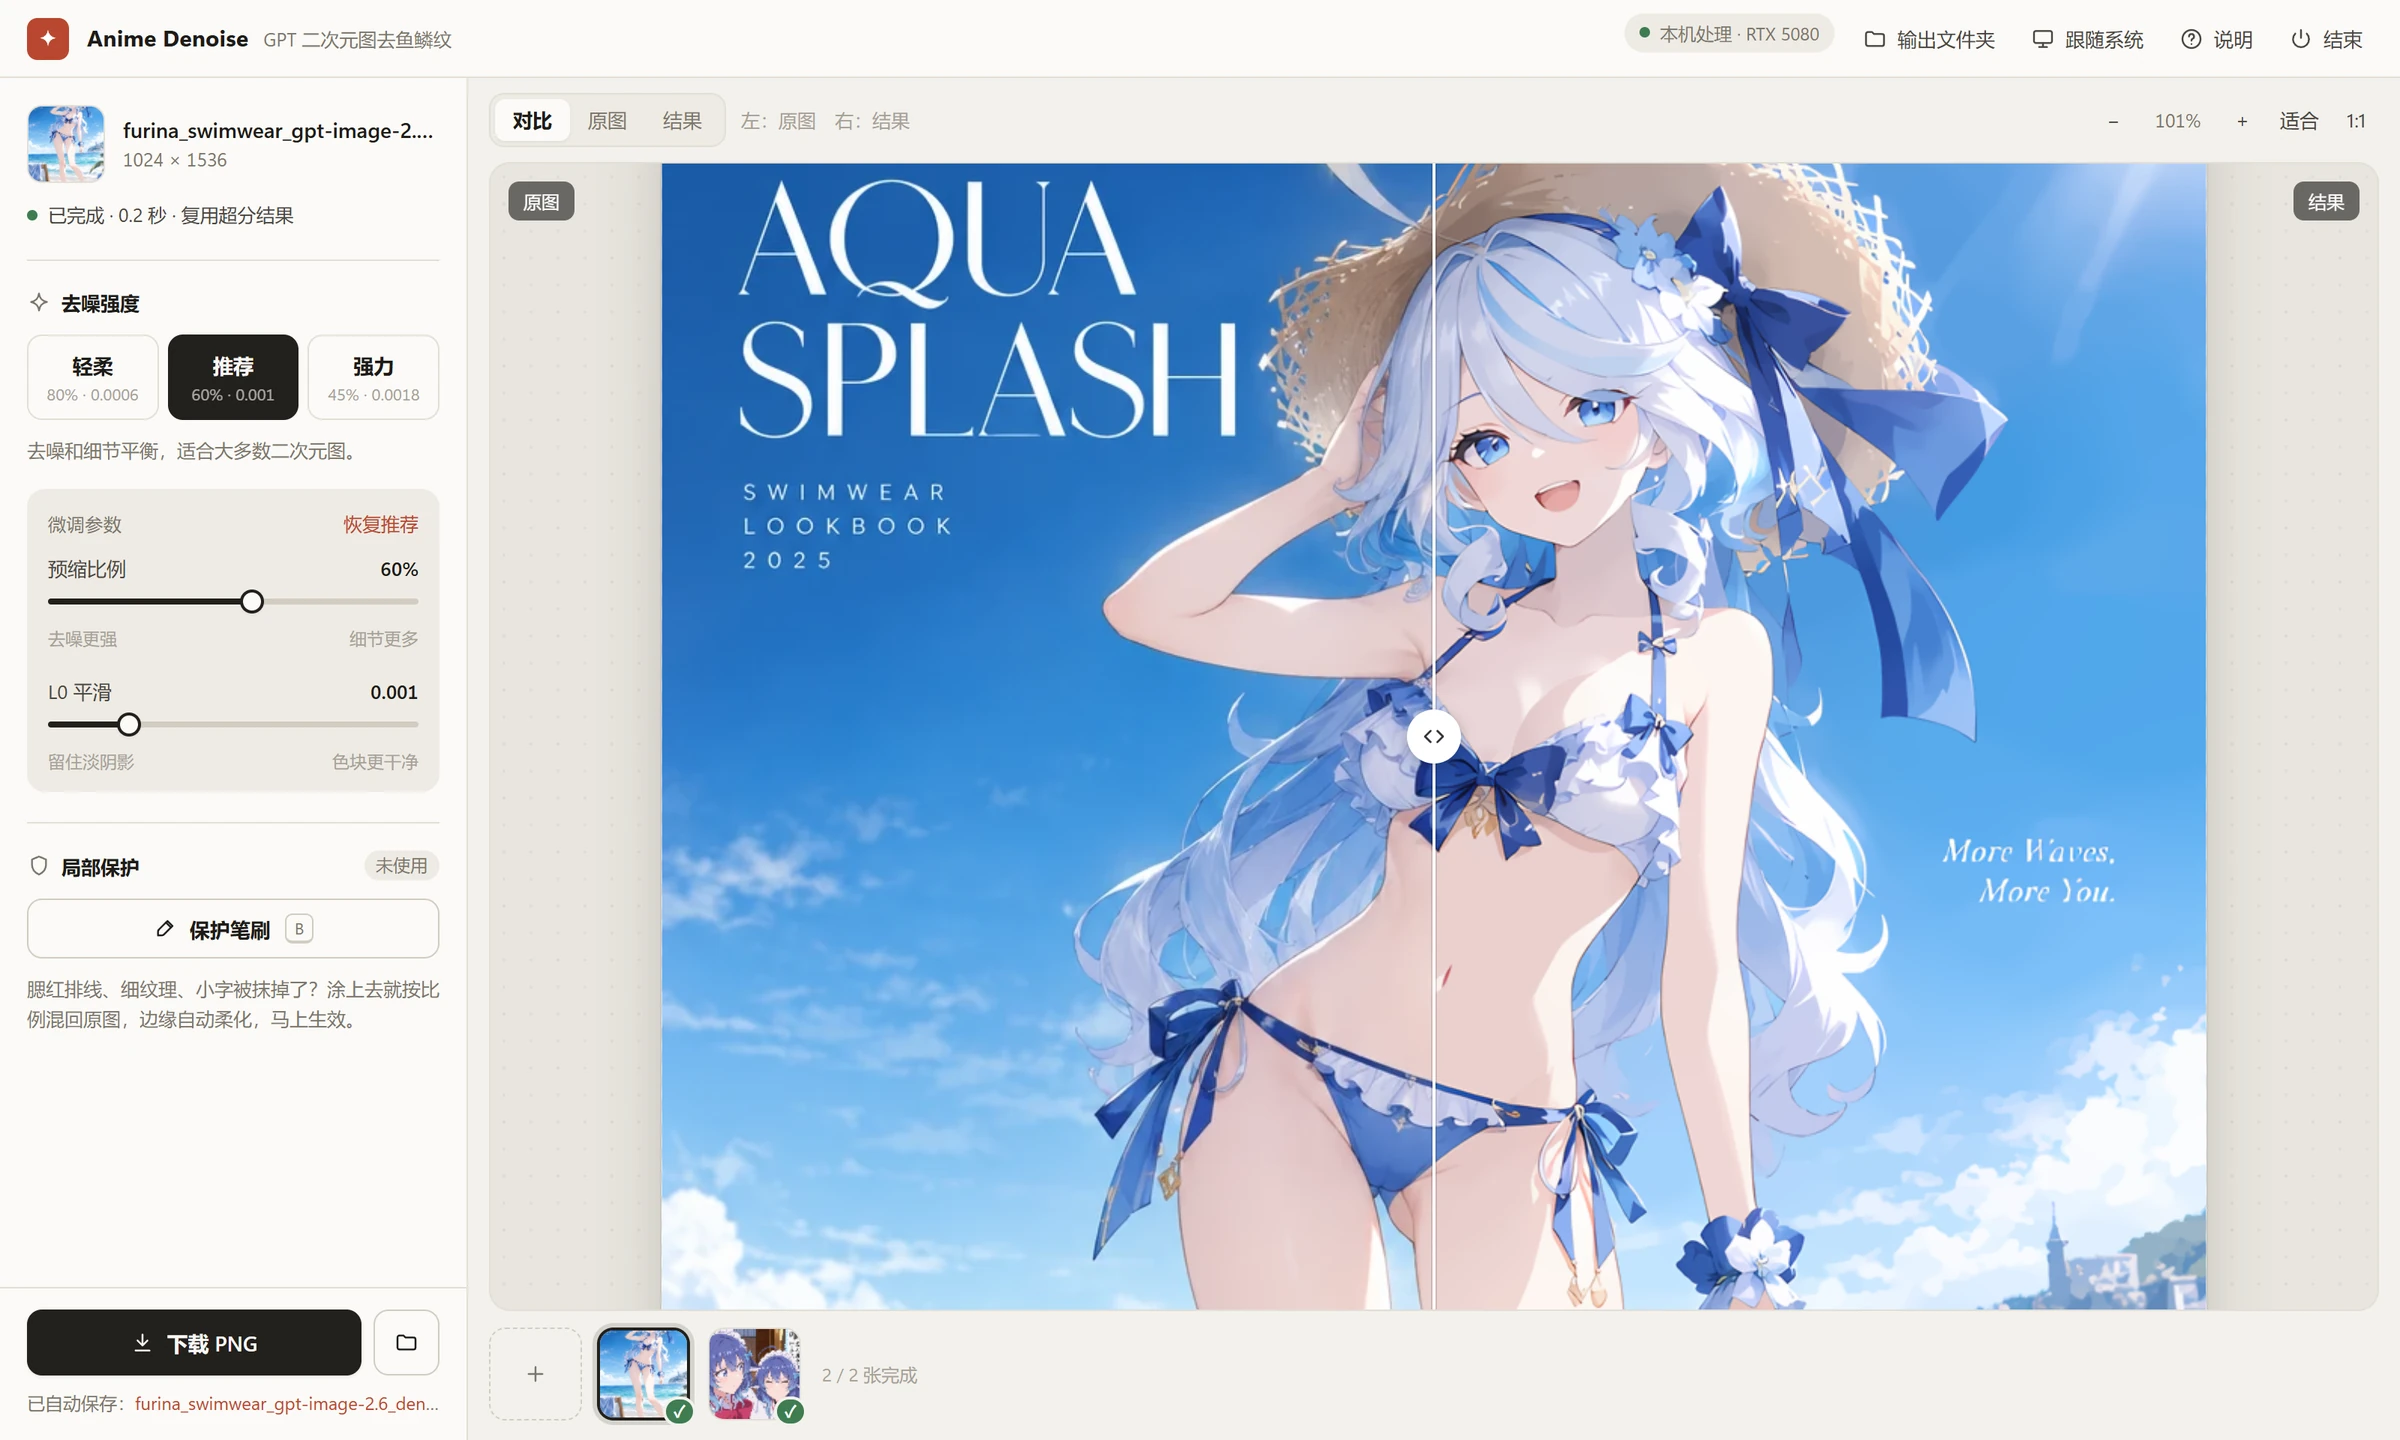
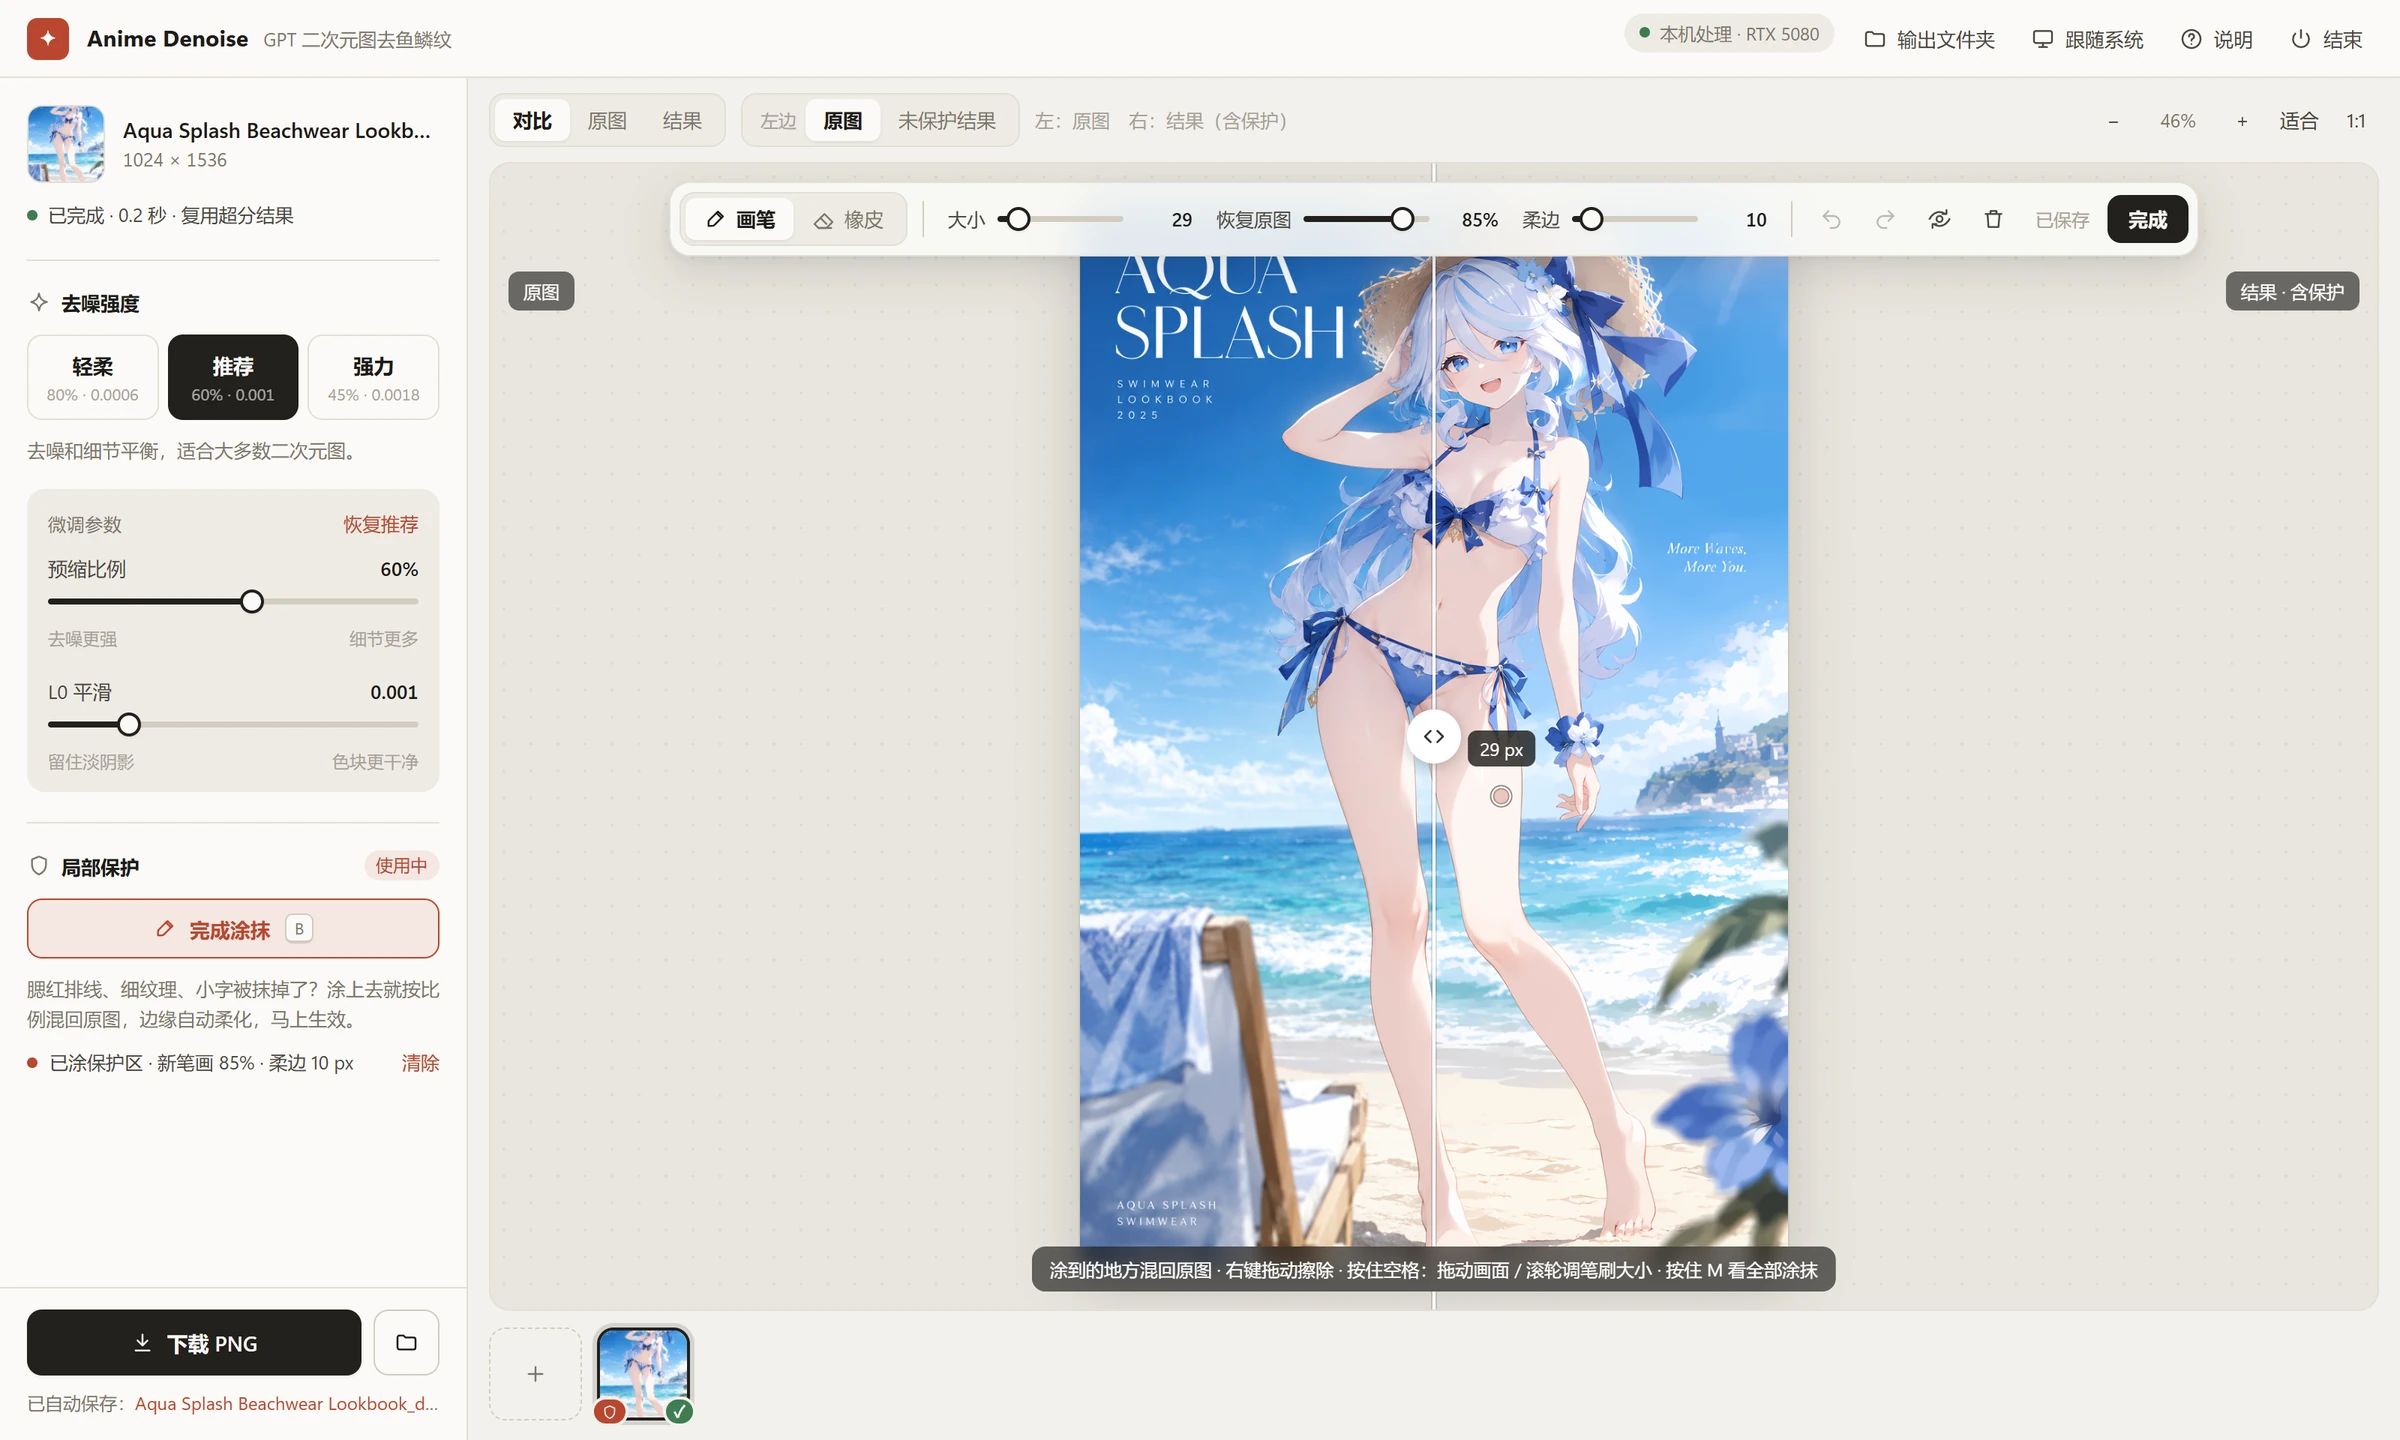
README: table of contents, real-use GUI screenshots, acknowledgements
- Overview screenshot of the app on the Aqua Splash poster in brush mode;
  the brush section now shows a real protection mask (zoomed tint in the
  app plus a same-area crop: mask / plain / fused / original).
- GUI section split into 主要功能 / 局部保护笔刷 / 外观与快捷键; new 目录
  and 致谢 sections.

diff --git a/README.md b/README.md
@@ -14,6 +14,24 @@ Removes the fish-scale texture that OpenAI's GPT image models leave in anime and
 
 QQ 群：**1130507071**，欢迎来做技术交流。群里聊 AI 视频、AI 建模、AI 绘画等内容，主打 agent base（dsh、Codex、Claude Code）+ 本地模型。
 
+## 目录
+
+- [效果](#效果)
+  - [粉彩白底插画](#粉彩白底插画)
+  - [电影感宽幅场景](#电影感宽幅场景)
+  - [番剧截帧质感](#番剧截帧质感)
+  - [八种方法对比](#八种方法对比)
+- [图形界面](#图形界面)
+  - [主要功能](#主要功能)
+  - [局部保护笔刷](#局部保护笔刷)
+  - [外观与快捷键](#外观与快捷键)
+- [命令行用法](#命令行用法)
+- [原理](#原理)
+  - [试过但效果不好的方法](#试过但效果不好的方法)
+- [作为 Claude Code / Codex skill 使用](#作为-claude-code--codex-skill-使用)
+- [致谢](#致谢)
+- [许可](#许可)
+
 ## 效果
 
 左边去噪前，右边默认方案去噪后。**请点开看原尺寸**，缩小后鳞纹看不出来。
@@ -52,26 +70,34 @@ python denoise_app.py      # 自动在浏览器打开 http://127.0.0.1:7865/
 
 Windows 上也可以双击 `去噪工具.bat`（默认用 PATH 里的 `pythonw`，需要时在文件里改成自己的 Python）。图片只在本机处理，不会上传；结果自动存到 `outputs/`（可用环境变量 `ANIME_DENOISE_OUTPUT` 改位置）。
 
-![GUI 滑动对比](examples/gui_compare.webp)
+![GUI 总览](examples/gui_compare.webp)
+
+### 主要功能
 
 - **拖进来就去噪**：拖入、点击选择或 Ctrl+V 粘贴，可以一次放多张，底部缩略图排队依次处理；RTX 5080 上一张约 1 秒。
 - **三档强度 + 微调**：轻柔（80% · 0.0006）/ 推荐（60% · 0.001）/ 强力（45% · 0.0018），下面的「微调参数」可以单独调预缩比例和 L0；松手就重跑，只改 L0 时复用超分结果，约 0.3 秒。正在处理时改参数，旧任务会立刻中止，直接按新参数重来。每张图记住自己的参数。
 - **对比查看**：对比 / 原图 / 结果三种视图；拖分割线比较，或按 `X` 在全屏原图和全屏结果之间直接切换（没有分割线）；滚轮缩放（200% 以上按原像素显示），拖动平移，按住 Z 临时看原图。
 - **保存**：右边显示的就是下载的 PNG，尺寸和原图一样，透明背景会保留；同时自动存一份到 `outputs/`，左下角点文件名就能在文件夹里定位。
 
+### 局部保护笔刷
+
+去噪有时会把皮肤的柔和阴影、腮红排线、细纹理、小字也一起抹平。用笔刷涂在这些地方，涂过的地方按比例混回原图，实时生效，不用重跑模型。下面两张都是同一张图上真实的涂抹：
+
 ![GUI 局部保护笔刷](examples/gui_mask.webp)
 
-- **局部保护笔刷**：腮红排线、细纹理、小字这类不想被抹平的地方，用画笔涂上（上图涂在两边脸颊的腮红上，淡红色就是涂过的范围和强度）。涂过的地方按比例混回原图，实时生效，不用重跑模型。
-  - 画面上方浮出工具条：画笔 / 橡皮、大小（默认 14 px，按住空格转滚轮可以细调）、恢复原图比例、柔边（默认 10 px，只向外渐变，0 是硬边）、撤销 / 重做、显示范围、清除。
-  - 每一笔有自己的强度：「恢复原图」设的是接下来这几笔的比例（默认 90%，100% 就是完全不动），同一张图里可以有 95% 的地方和 40% 的地方；淡红色越深表示混回原图越多，柔边的渐变也直接显示出来。在涂过的地方再涂，会改成新的比例。
-  - 左边可以切到「未保护结果」，直接对比加保护前后。淡红范围默认「涂完自动隐藏」：画的时候显示，松手后约 0.7 秒淡出；工具条上的眼睛按钮可改成一直显示，任何时候按住 M 都能看到全部已涂的地方。
-  - 去噪前也可以先涂；重新去噪后保护区会自动套用。
+![局部保护前后对比](examples/gui_mask_crops.webp)
+
+- 画面上方浮出工具条：画笔 / 橡皮、大小（默认 14 px，按住空格转滚轮可以细调）、恢复原图比例（默认 90%）、柔边（默认 10 px，只向外渐变，0 是硬边）、撤销 / 重做、显示范围、清除。
+- 每一笔有自己的强度：「恢复原图」设的是接下来这几笔的比例（100% 就是完全不动），同一张图里可以有 90% 的地方和 60% 的地方；淡红色越深表示混回原图越多，柔边的渐变也直接显示出来。在涂过的地方再涂，会改成新的比例。
+- 淡红范围默认「涂完自动隐藏」：画的时候只显示这一笔，松手后约 0.7 秒淡出；工具条上的眼睛按钮可改成一直显示，任何时候按住 M 都能看到全部已涂的地方。左边可以切到「未保护结果」，直接对比加保护前后。
+- 去噪前也可以先涂；重新去噪后保护区会自动套用。
+
+### 外观与快捷键
 
 ![GUI 深色外观](examples/gui_dark.webp)
 
 - **外观**：跟随系统 / 浅色 / 深色。
 - **快捷键**：`B` 开始 / 结束涂抹（橡皮状态下先切回画笔），`E` 橡皮，`Esc` 也能结束涂抹，按住空格转滚轮或 `[` `]` 调画笔大小，右键拖动擦除，按住空格拖动画面，`1` `2` `3` 切换视图，`X` 全屏原图 / 结果互切，`←` `→` 切换图片，`Ctrl+S` 下载，`Ctrl+Z` 撤销（加 Shift 重做），`?` 打开说明。
-- 网页工具的强度预设、浮动笔刷工具条、多图队列、深色外观、处理进度和自动保存等设计参考了 [@AkihiM](https://github.com/AkihiM) 在 [PR #1](https://github.com/CXP-2024/gpt-anime-denoise/pull/1) 里的网页界面，感谢。
 
 ## 命令行用法
 
@@ -133,6 +159,10 @@ python denoise.py image.png --l0 0.002   # 自行调节 L0 强度
 ## 作为 Claude Code / Codex skill 使用
 
 把整个目录放进 `.claude/skills/gpt-anime-denoise/`（或 Codex 的 skills 目录），`SKILL.md` 会告诉 agent 在 GPT 出完二次元图后跑这一步。
+
+## 致谢
+
+- [@AkihiM](https://github.com/AkihiM) 在 [PR #1](https://github.com/CXP-2024/gpt-anime-denoise/pull/1) 里做了第一版网页界面。现在网页工具里的强度预设、浮动笔刷工具条、多图队列、处理进度、深色外观、自动保存、保留透明通道和显存不足时分块超分等设计，都借鉴了这个 PR 的思路，感谢。
 
 ## 许可
 
